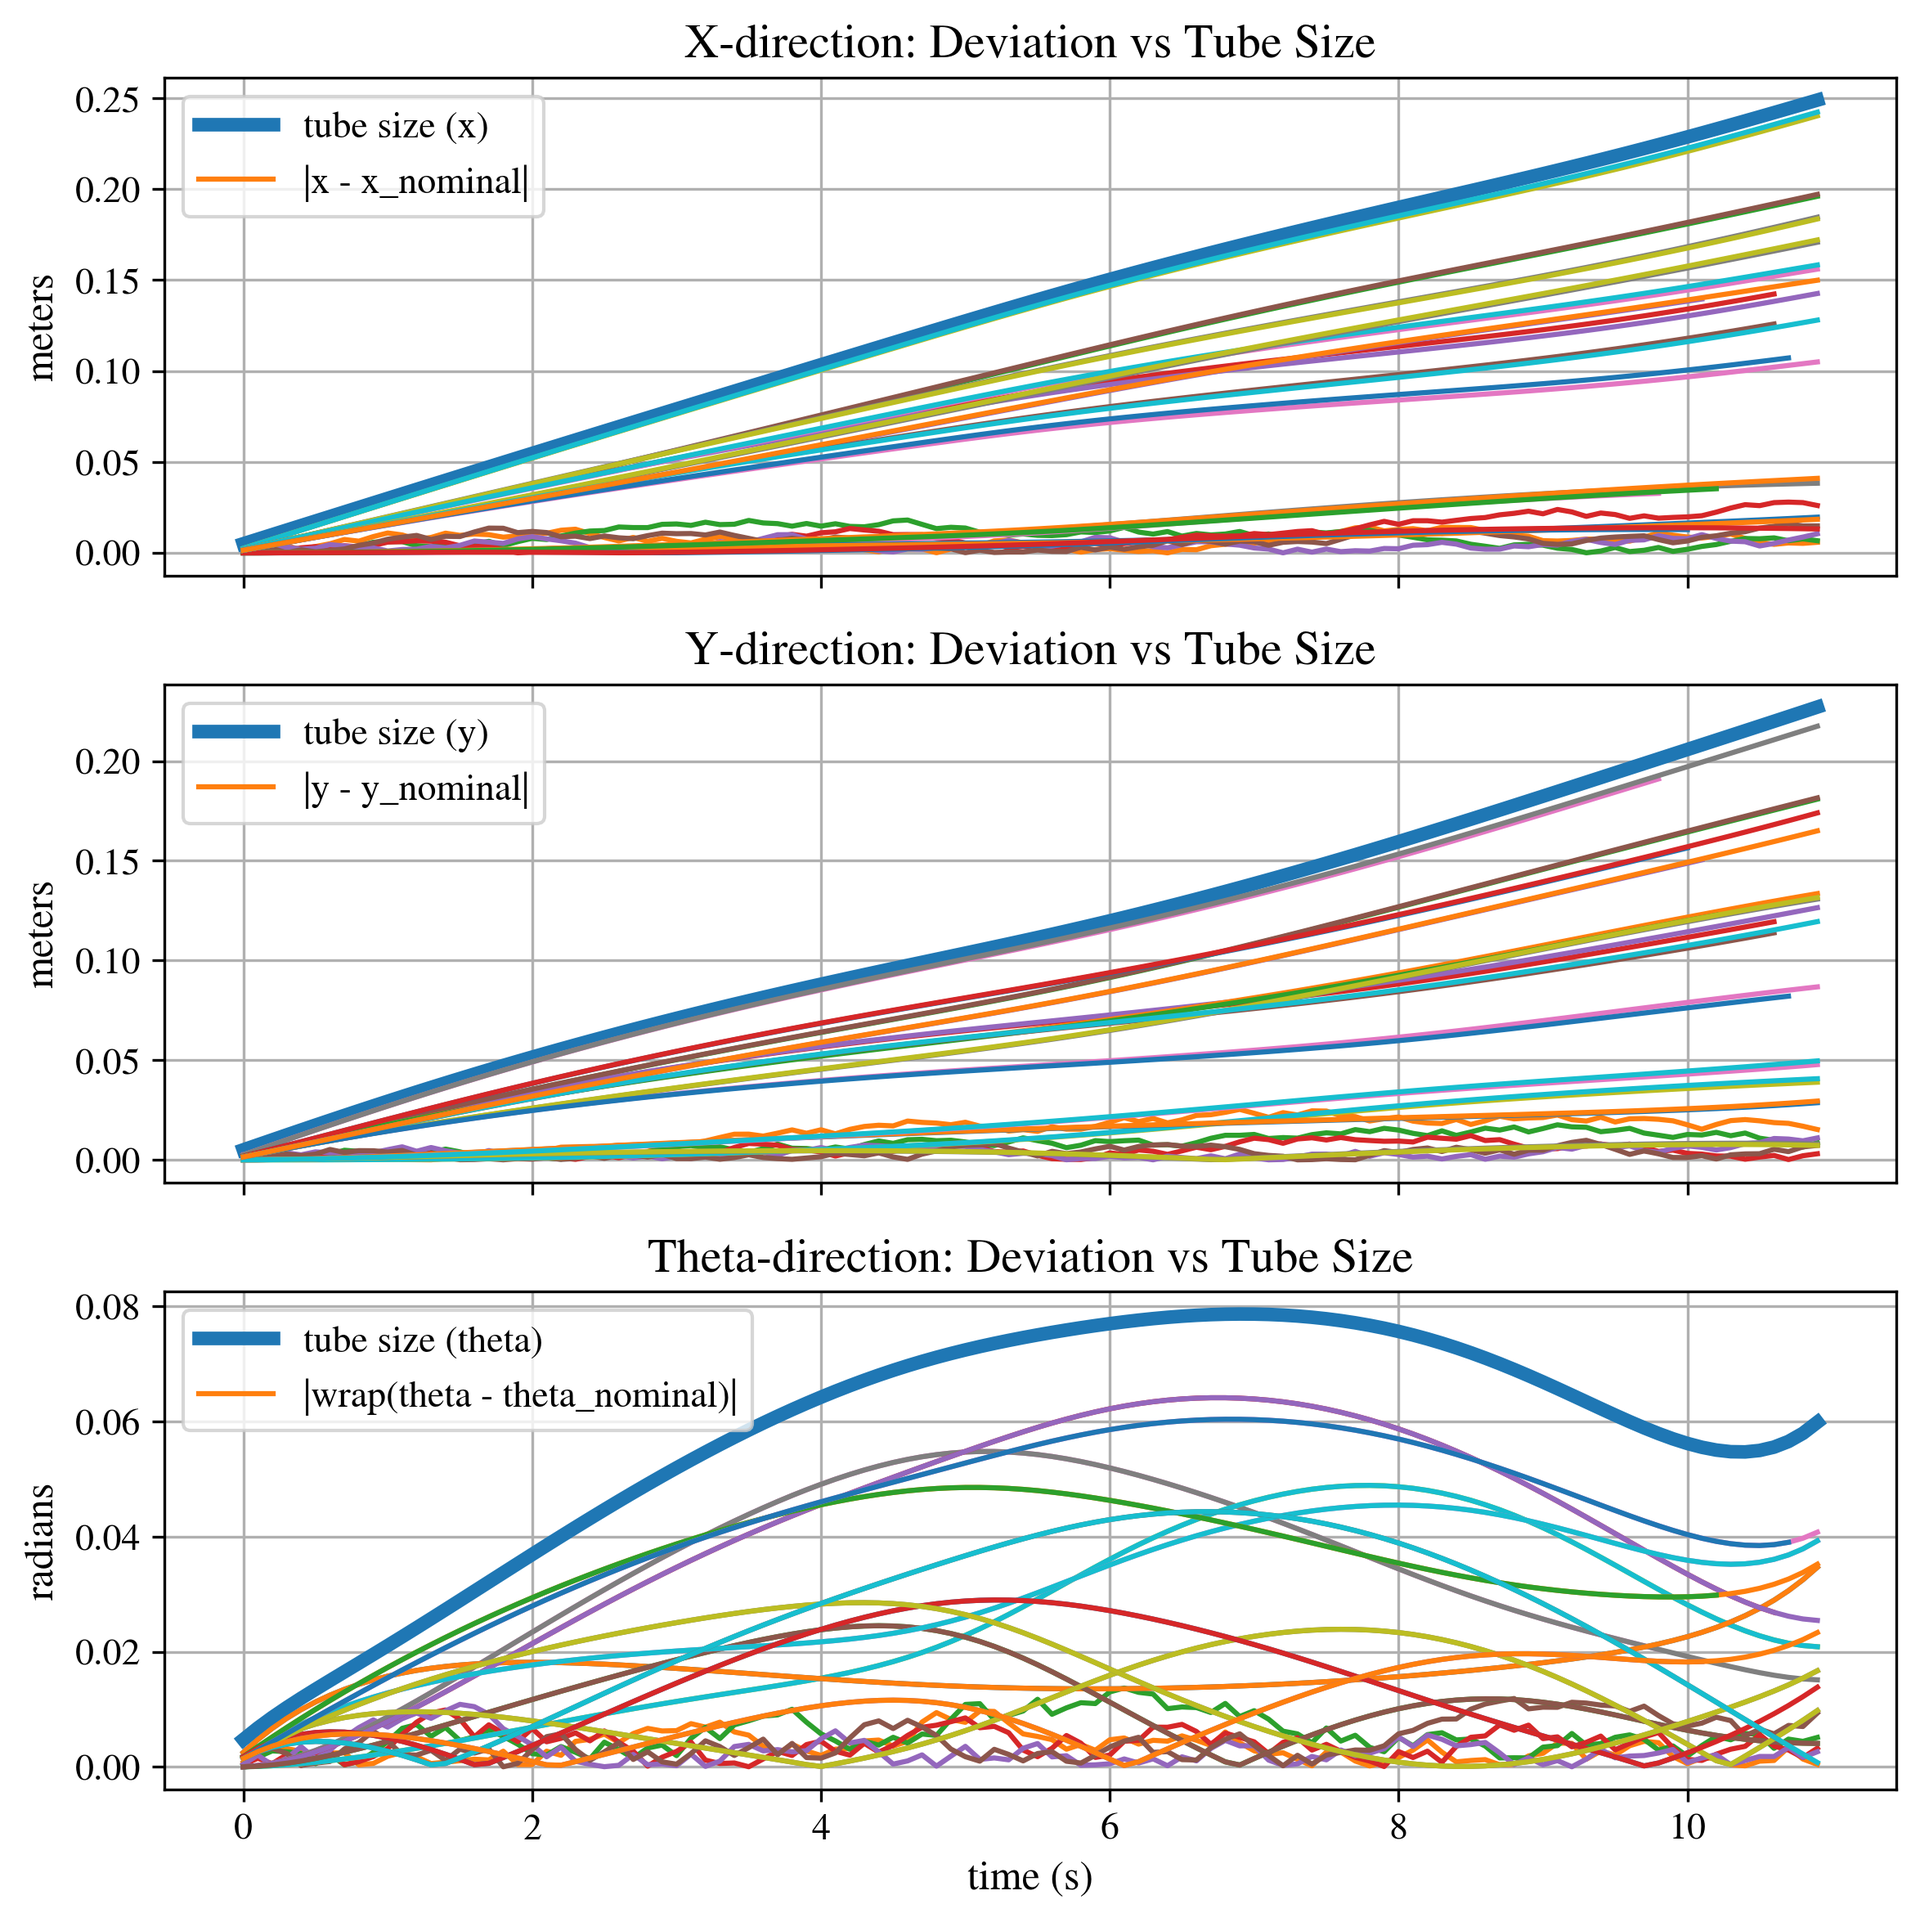
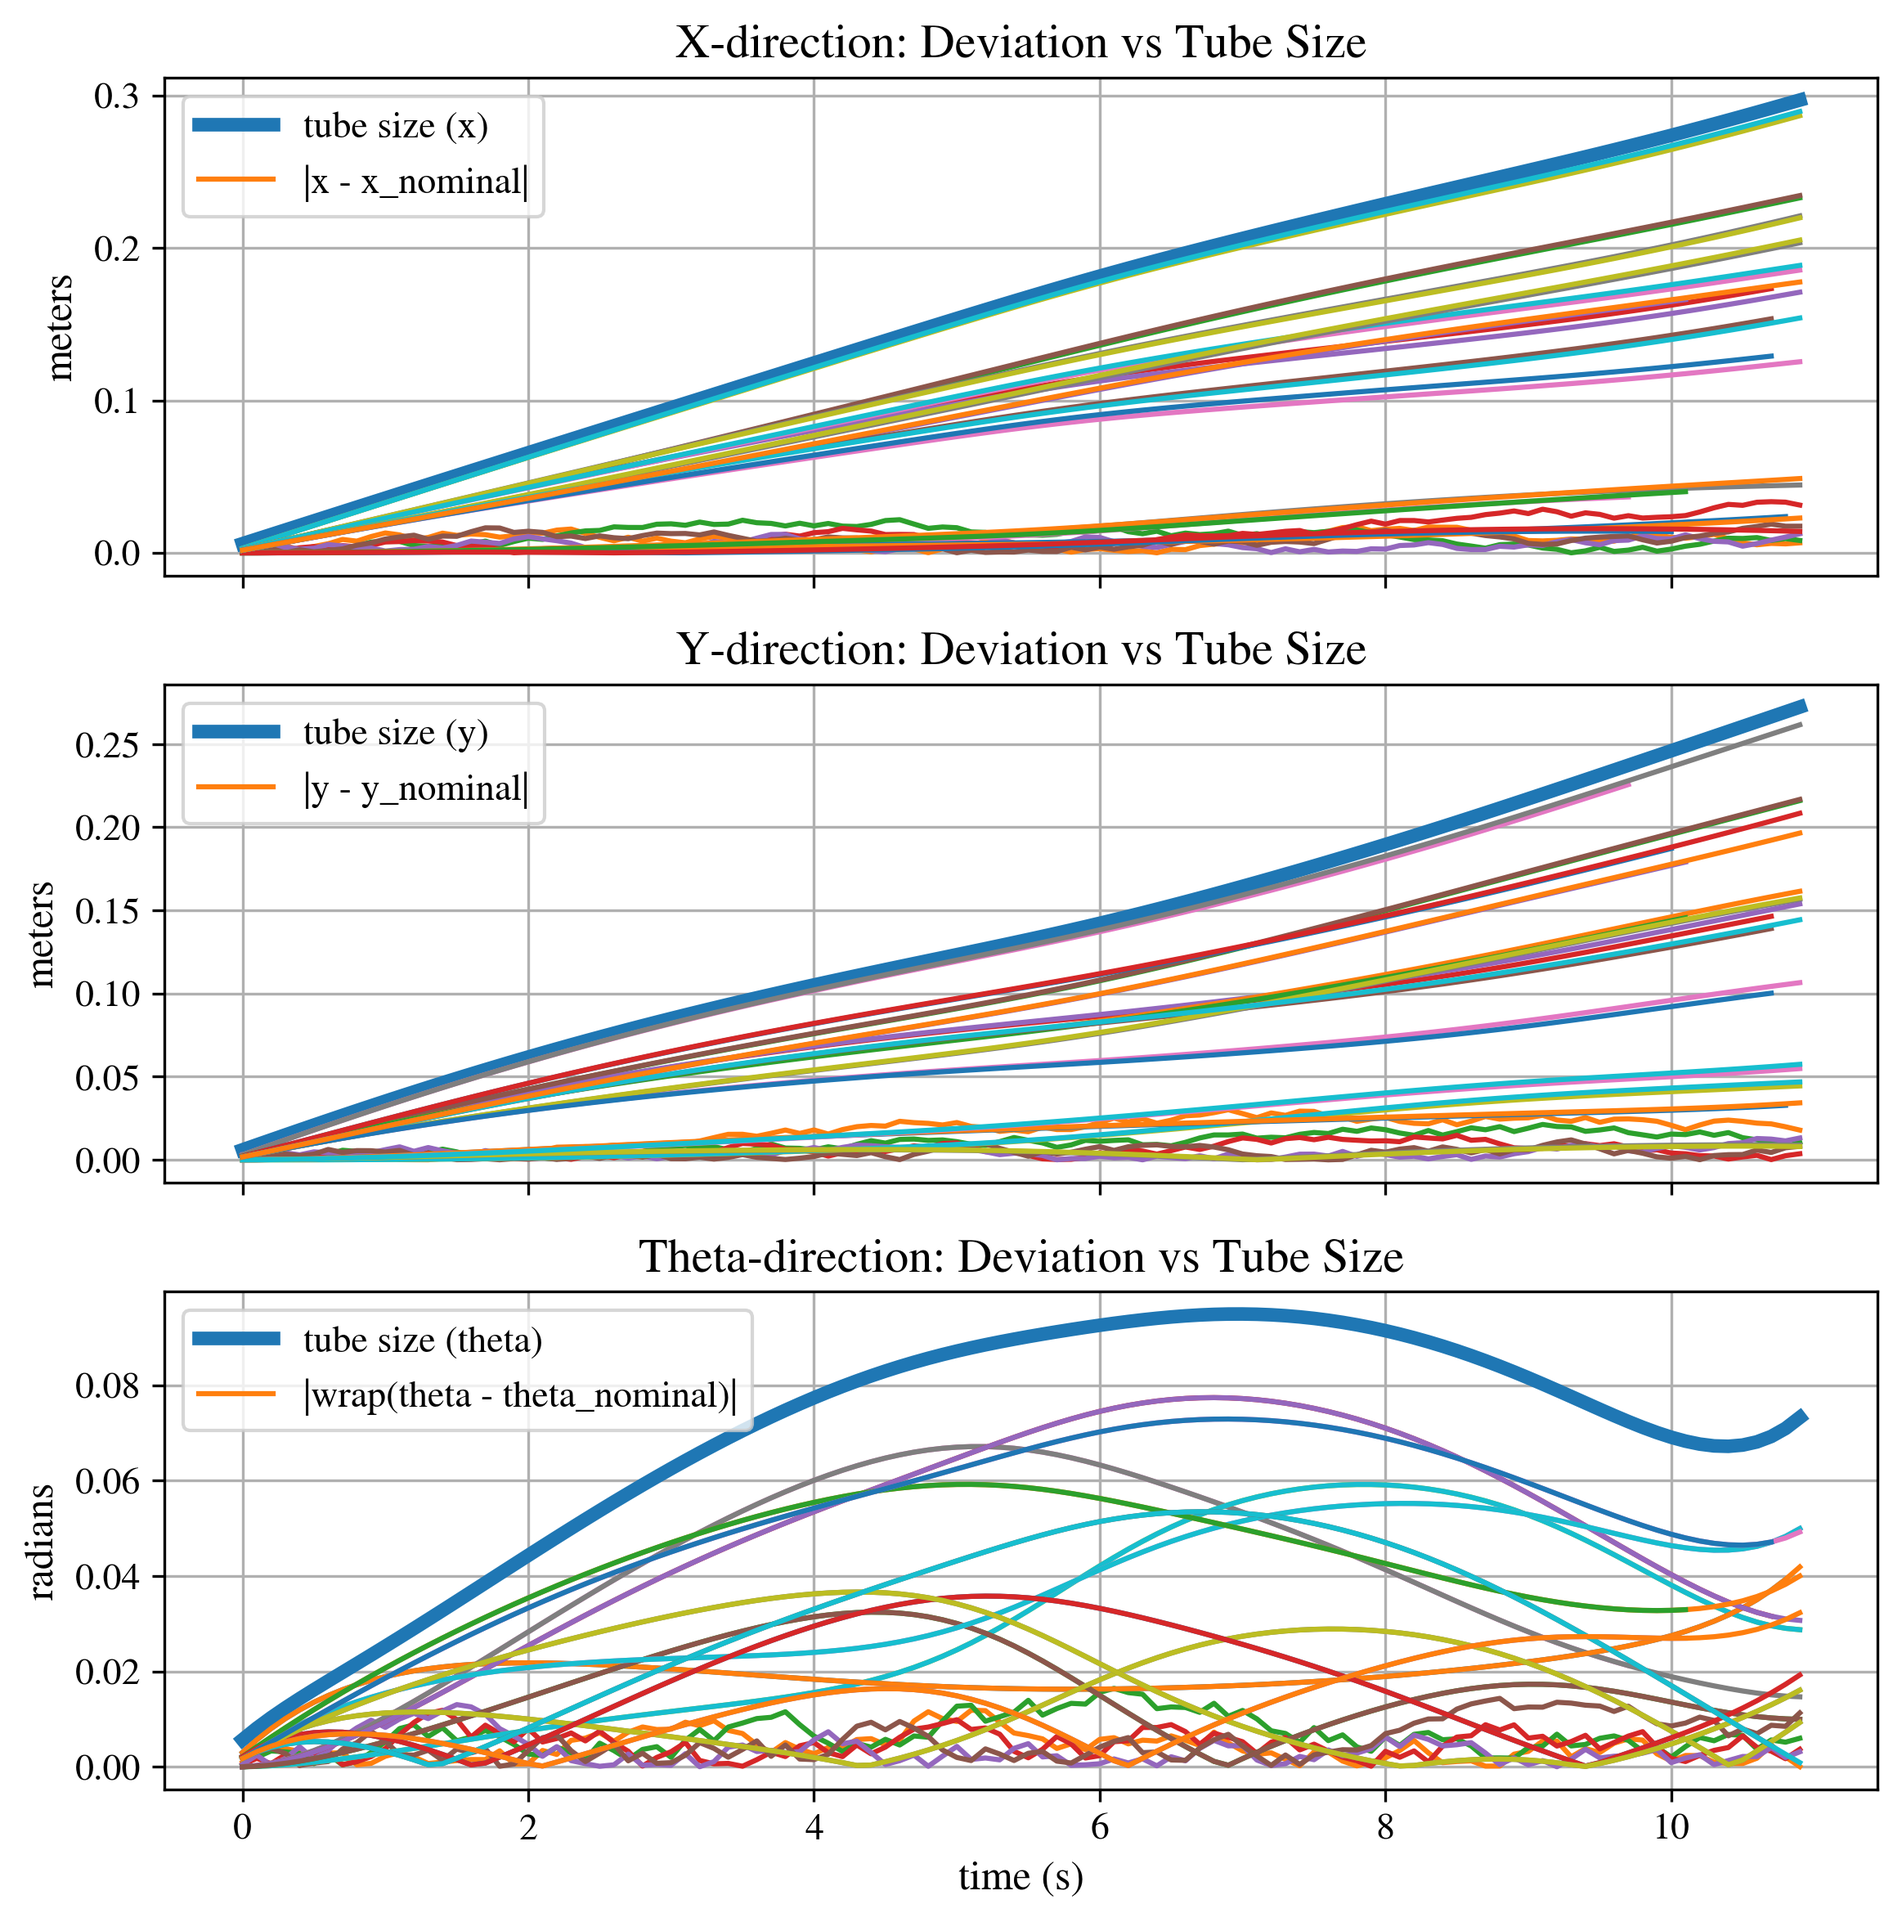
Modifiy experiment

diff --git a/examples/dubins_car/dubins_car.py b/examples/dubins_car/dubins_car.py
@@ -265,7 +265,7 @@ def main():
     n_obs = obstacles.shape[0]
     nc = 2 * nu + 2 * n + n_obs
 
-    E_mag = 0.025
+    E_mag = 0.03
     alpha_sim = E_mag * dt
     disturbance = make_constant_disturbance(n=n, alpha=alpha_sim)
 
@@ -287,7 +287,7 @@ def main():
         eps_rel=0,
         rho_max=1e5,
         max_iterations=1000,
-        rho_update_frequency=25,
+        rho_update_frequency=10,
     )
 
     sls_cfg = SLSConfig(
